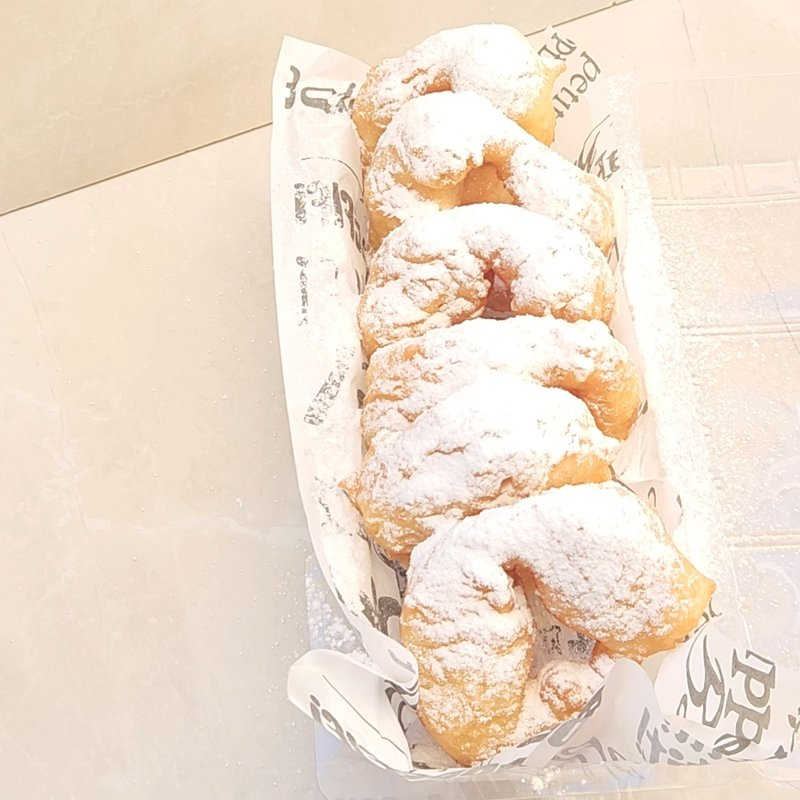
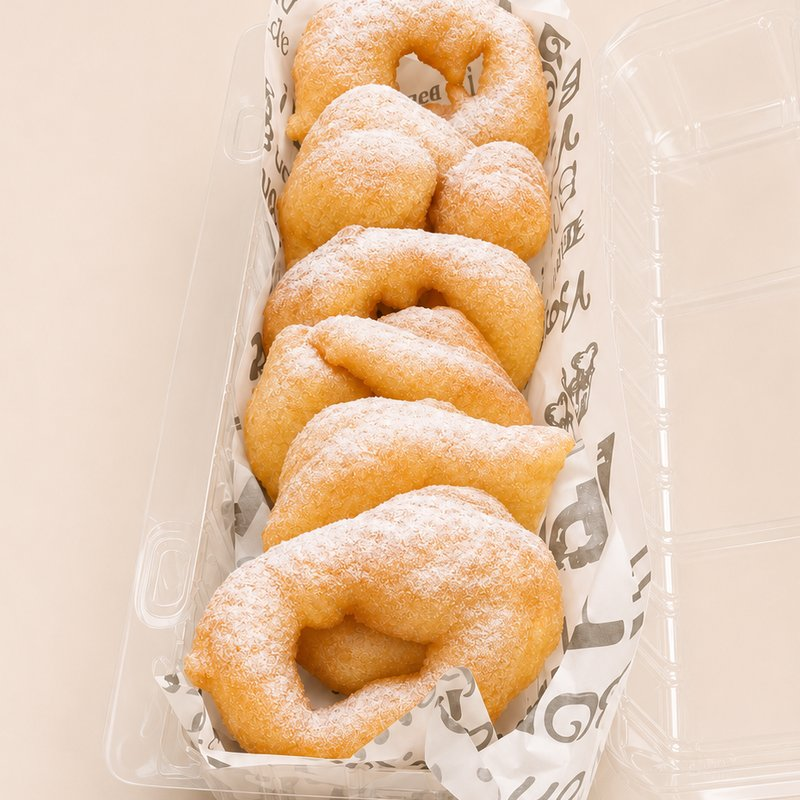
Studio photos for both sfenj types

diff --git a/index.html b/index.html
@@ -224,7 +224,7 @@
       '<span class="q" id="q_'+key+idx+'">0</span><button type="button" class="inc" data-k="'+key+'" data-i="'+idx+'" data-d="1" aria-label="עוד">+</button></div></div>';
   }
   document.getElementById('jam').innerHTML = stepperRow('jam','','סופגניית ריבה','','10 ₪','jam.jpg?v=2');
-  document.getElementById('sfenj').innerHTML = stepperRow('sfSugar','',"ספינג' מצופה סוכר",'6 יחידות','29 ₪','sfenj-sugar.jpg?v=2') + stepperRow('sfPowder','',"ספינג' אבקת סוכר",'6 יחידות','29 ₪','sfenj-powder.jpg');
+  document.getElementById('sfenj').innerHTML = stepperRow('sfSugar','',"ספינג' מצופה סוכר",'6 יחידות','29 ₪','sfenj-sugar.jpg?v=3') + stepperRow('sfPowder','',"ספינג' אבקת סוכר",'6 יחידות','29 ₪','sfenj-powder.jpg?v=3');
   document.getElementById('fric').innerHTML = stepperRow('f8','','מארז 8 פריקסה','','180 ₪','fricassee.jpg?v=2') + stepperRow('f12','','מארז 12 פריקסה','','260 ₪','fricassee.jpg?v=2');
 
   var now = new Date();
